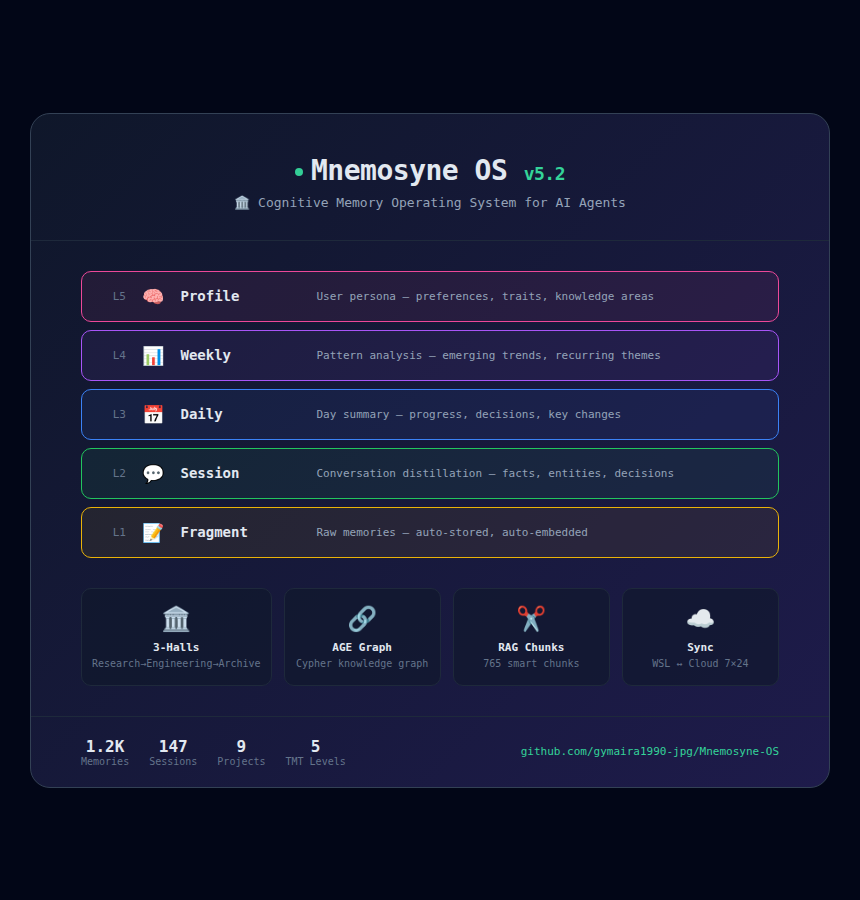
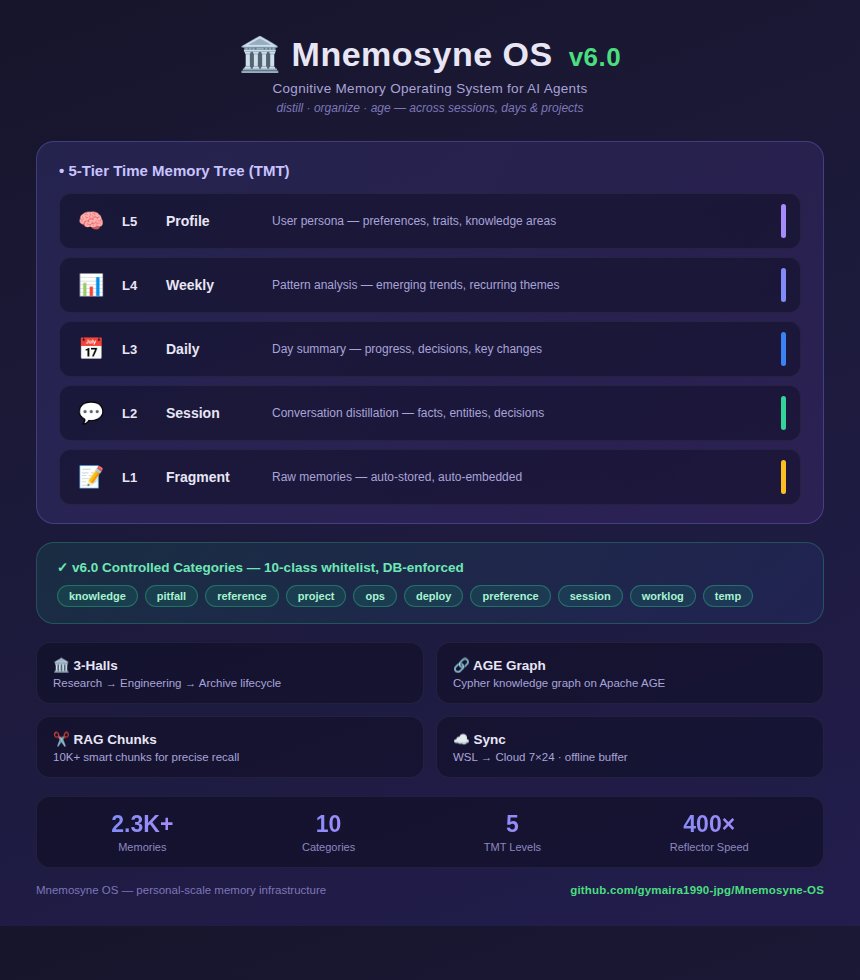
docs: v6.0.0 架构海报换代 — 10类分类体系 + TMT 5层 + 特性卡片 (poster.html 源文件入库, 后续可改源重渲染)

diff --git a/docs/poster.html b/docs/poster.html
@@ -1,0 +1,96 @@
+<!DOCTYPE html>
+<html lang="en">
+<head>
+<meta charset="UTF-8">
+<style>
+  * { margin: 0; padding: 0; box-sizing: border-box; }
+  body {
+    width: 860px;
+    background: linear-gradient(160deg, #17152b 0%, #1c1a3a 45%, #221d4d 100%);
+    font-family: -apple-system, "Segoe UI", "PingFang SC", "Microsoft YaHei", sans-serif;
+    color: #e8e6f5;
+    padding: 34px 36px 30px;
+  }
+  .header { text-align: center; margin-bottom: 26px; }
+  .title { font-size: 34px; font-weight: 800; letter-spacing: 0.5px; }
+  .title .ver { color: #4ade80; font-size: 26px; font-weight: 700; margin-left: 6px; }
+  .subtitle { font-size: 13.5px; color: #a9a4d8; margin-top: 7px; letter-spacing: 0.3px; }
+  .tagline { font-size: 12px; color: #7d77b8; margin-top: 5px; font-style: italic; }
+
+  .tier-box {
+    background: linear-gradient(135deg, rgba(99,102,241,0.16), rgba(168,85,247,0.10));
+    border: 1px solid rgba(139,132,255,0.28);
+    border-radius: 18px;
+    padding: 20px 22px 18px;
+    margin-bottom: 18px;
+  }
+  .tier-title { font-size: 15px; font-weight: 700; margin-bottom: 14px; color: #c9c4ff; }
+  .tier { display: flex; align-items: center; gap: 14px; padding: 10px 14px; border-radius: 12px; margin-bottom: 8px; background: rgba(10,10,26,0.42); border: 1px solid rgba(255,255,255,0.05); }
+  .tier:last-child { margin-bottom: 0; }
+  .tier .icon { font-size: 21px; width: 34px; text-align: center; }
+  .tier .lv { font-size: 13px; font-weight: 800; width: 30px; color: #e8e6f5; }
+  .tier .name { font-size: 14px; font-weight: 700; width: 92px; }
+  .tier .desc { font-size: 12px; color: #a9a4d8; flex: 1; }
+  .bar { width: 5px; border-radius: 3px; align-self: stretch; min-height: 34px; }
+
+  .feat-grid { display: grid; grid-template-columns: 1fr 1fr; gap: 12px; margin-bottom: 18px; }
+  .feat { background: rgba(10,10,26,0.42); border: 1px solid rgba(255,255,255,0.06); border-radius: 14px; padding: 14px 16px; }
+  .feat .f-title { font-size: 13.5px; font-weight: 700; margin-bottom: 4px; }
+  .feat .f-desc { font-size: 11.5px; color: #a9a4d8; }
+
+  .cats { background: linear-gradient(135deg, rgba(16,185,129,0.12), rgba(59,130,246,0.08)); border: 1px solid rgba(52,211,153,0.25); border-radius: 18px; padding: 16px 20px; margin-bottom: 18px; }
+  .cats-title { font-size: 13.5px; font-weight: 700; color: #6ee7b7; margin-bottom: 10px; }
+  .cat-tags { display: flex; flex-wrap: wrap; gap: 7px; }
+  .tag { font-size: 11px; padding: 4px 11px; border-radius: 999px; background: rgba(16,185,129,0.14); border: 1px solid rgba(52,211,153,0.35); color: #a7f3d0; font-weight: 600; }
+
+  .stats { display: flex; justify-content: space-around; text-align: center; padding: 14px 10px; background: rgba(10,10,26,0.5); border-radius: 14px; border: 1px solid rgba(255,255,255,0.06); }
+  .stat .num { font-size: 23px; font-weight: 800; background: linear-gradient(90deg,#818cf8,#a78bfa); -webkit-background-clip: text; -webkit-text-fill-color: transparent; }
+  .stat .lbl { font-size: 11px; color: #8d88c0; margin-top: 3px; }
+
+  .footer { display: flex; justify-content: space-between; align-items: center; margin-top: 16px; font-size: 11.5px; color: #7d77b8; }
+  .footer .repo { color: #4ade80; font-weight: 700; letter-spacing: 0.2px; }
+</style>
+</head>
+<body>
+  <div class="header">
+    <div class="title">🏛 Mnemosyne OS <span class="ver">v6.0</span></div>
+    <div class="subtitle">Cognitive Memory Operating System for AI Agents</div>
+    <div class="tagline">distill · organize · age — across sessions, days & projects</div>
+  </div>
+
+  <div class="tier-box">
+    <div class="tier-title">• 5-Tier Time Memory Tree (TMT)</div>
+    <div class="tier"><span class="icon">🧠</span><span class="lv">L5</span><span class="name">Profile</span><span class="desc">User persona — preferences, traits, knowledge areas</span><span class="bar" style="background:#a78bfa;"></span></div>
+    <div class="tier"><span class="icon">📊</span><span class="lv">L4</span><span class="name">Weekly</span><span class="desc">Pattern analysis — emerging trends, recurring themes</span><span class="bar" style="background:#818cf8;"></span></div>
+    <div class="tier"><span class="icon">📅</span><span class="lv">L3</span><span class="name">Daily</span><span class="desc">Day summary — progress, decisions, key changes</span><span class="bar" style="background:#3b82f6;"></span></div>
+    <div class="tier"><span class="icon">💬</span><span class="lv">L2</span><span class="name">Session</span><span class="desc">Conversation distillation — facts, entities, decisions</span><span class="bar" style="background:#34d399;"></span></div>
+    <div class="tier"><span class="icon">📝</span><span class="lv">L1</span><span class="name">Fragment</span><span class="desc">Raw memories — auto-stored, auto-embedded</span><span class="bar" style="background:#fbbf24;"></span></div>
+  </div>
+
+  <div class="cats">
+    <div class="cats-title">✓ v6.0 Controlled Categories — 10-class whitelist, DB-enforced</div>
+    <div class="cat-tags">
+      <span class="tag">knowledge</span><span class="tag">pitfall</span><span class="tag">reference</span><span class="tag">project</span><span class="tag">ops</span><span class="tag">deploy</span><span class="tag">preference</span><span class="tag">session</span><span class="tag">worklog</span><span class="tag">temp</span>
+    </div>
+  </div>
+
+  <div class="feat-grid">
+    <div class="feat"><div class="f-title">🏛 3-Halls</div><div class="f-desc">Research → Engineering → Archive lifecycle</div></div>
+    <div class="feat"><div class="f-title">🔗 AGE Graph</div><div class="f-desc">Cypher knowledge graph on Apache AGE</div></div>
+    <div class="feat"><div class="f-title">✂ RAG Chunks</div><div class="f-desc">10K+ smart chunks for precise recall</div></div>
+    <div class="feat"><div class="f-title">☁ Sync</div><div class="f-desc">WSL → Cloud 7×24 · offline buffer</div></div>
+  </div>
+
+  <div class="stats">
+    <div class="stat"><div class="num">2.3K+</div><div class="lbl">Memories</div></div>
+    <div class="stat"><div class="num">10</div><div class="lbl">Categories</div></div>
+    <div class="stat"><div class="num">5</div><div class="lbl">TMT Levels</div></div>
+    <div class="stat"><div class="num">400×</div><div class="lbl">Reflector Speed</div></div>
+  </div>
+
+  <div class="footer">
+    <span>Mnemosyne OS — personal-scale memory infrastructure</span>
+    <span class="repo">github.com/gymaira1990-jpg/Mnemosyne-OS</span>
+  </div>
+</body>
+</html>

diff --git a/README.md b/README.md
@@ -176,7 +176,7 @@ WSL offline? Local SQLite cache. Back online? Silent push to PostgreSQL. Seven c
 
 ```
 ┌──────────────────────────────────────────────────────┐
-│                   Mnemosyne OS v5.3                    │
+│                   Mnemosyne OS v6.0                    │
 │                                                        │
 │  FastAPI (38 endpoints)                                │
 │  ├── /api/v1/memories          CRUD + search           │
@@ -190,6 +190,9 @@ WSL offline? Local SQLite cache. Back online? Silent push to PostgreSQL. Seven c
 │  PostgreSQL 16 · pgvector 1024d (HNSW)                │
 │  Apache AGE (Cypher graph queries)                     │
 │  asyncpg connection pool                               │
+│                                                        │
+│  v6.0 Controlled Categories (10-class whitelist,       │
+│  DB CHECK enforced, write-gateway normalization)       │
 │                                                        │
 │  TMT Pipeline (LLM-driven)                             │
 │  L1 fragments → L2 sessions → L3 daily → L4 weekly     │
